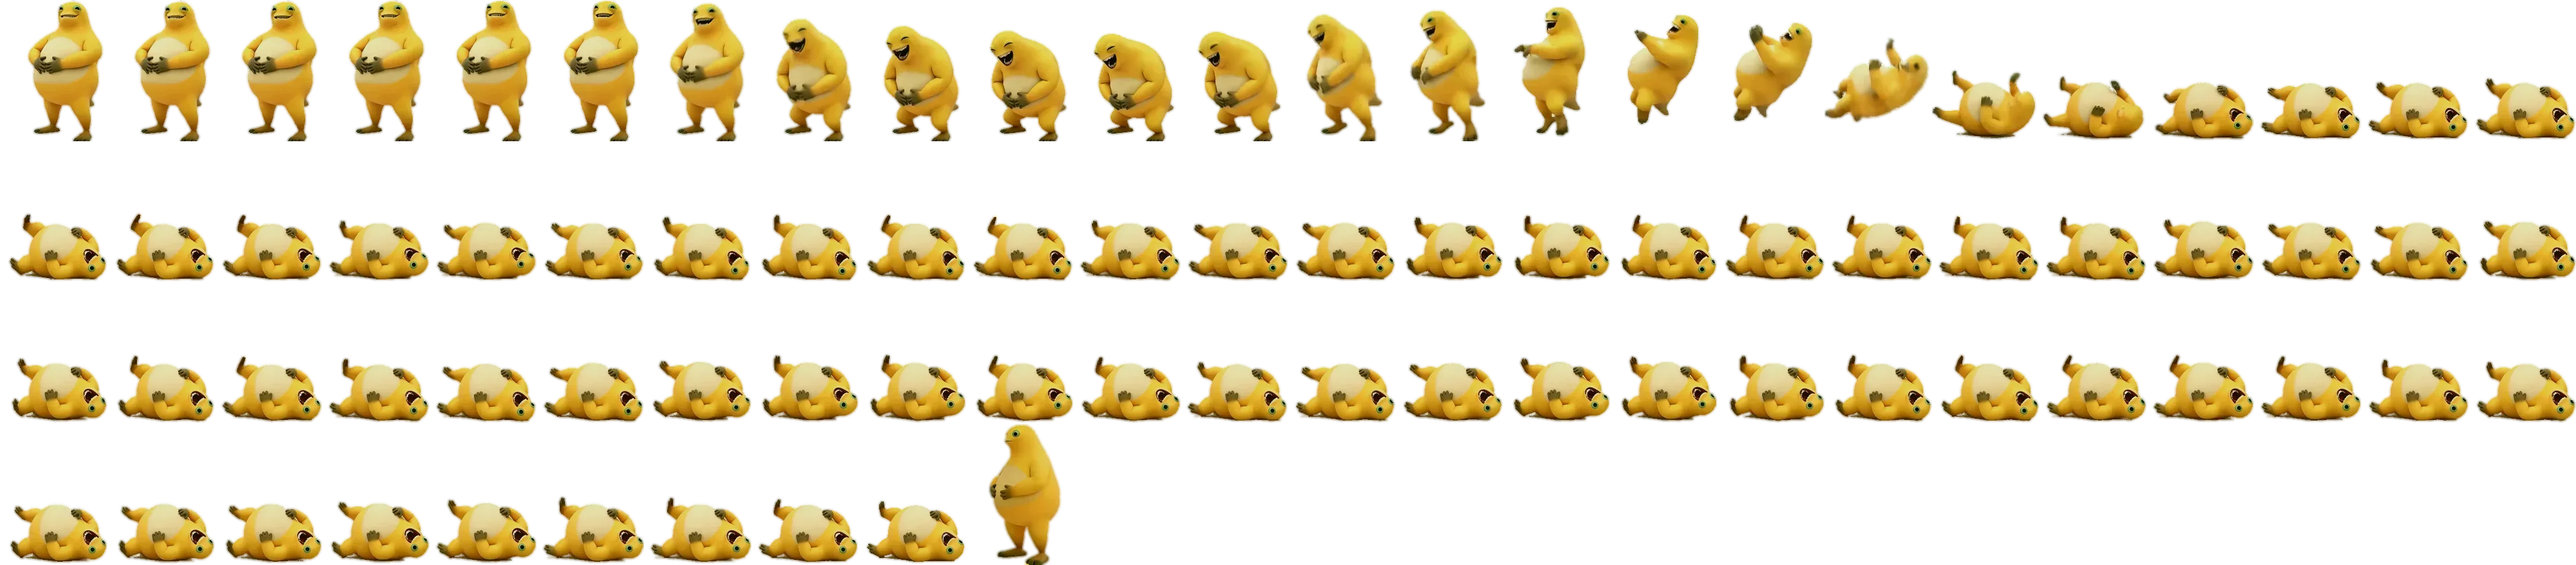
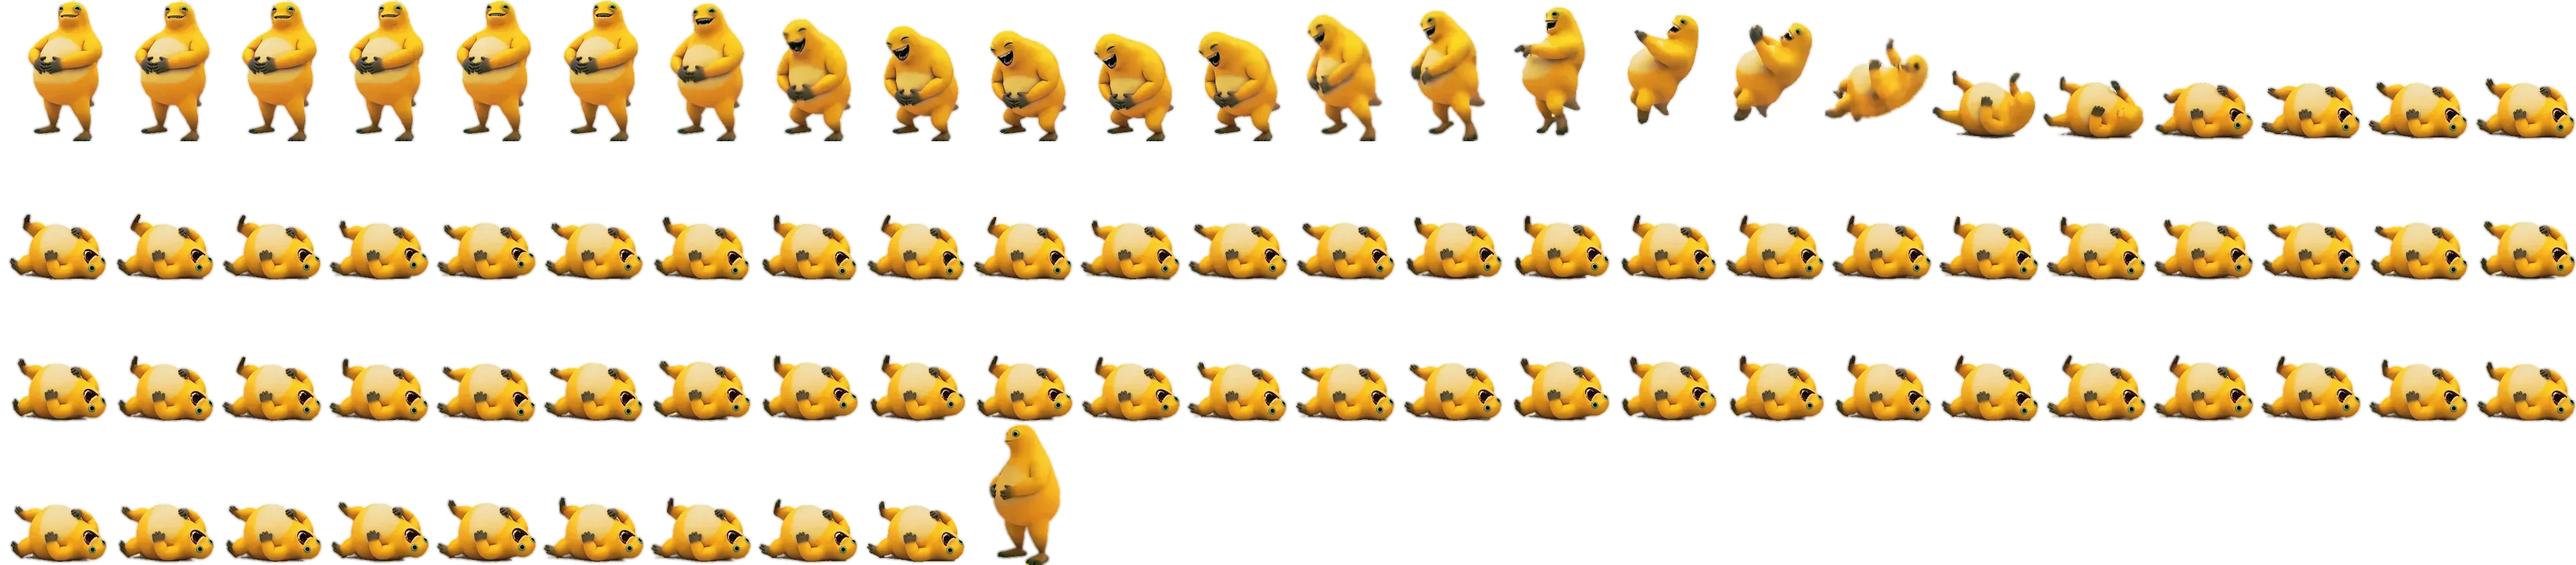
fix(deskpet): 打滚与大笑按亮度→颜色曲线对齐站立色板（平均绝对色差 B 通道 19.9→7.2 / 19.6→6.6）

diff --git a/docs/状态.md b/docs/状态.md
@@ -1,3 +1,4 @@
+> **2026-11-13 21:48 一句话状态**：打滚/大笑色板已按「亮度→颜色」曲线对齐站立三视图（平均绝对色差打滚 15.5/8.6/19.9 → 5.5/2.5/7.2、大笑 15.9/10.0/19.6 → 6.0/2.4/6.6），`bean-roll.webp` 405692 B、`bean-laugh.webp` 573098 B；`npm run build` EXIT=0、`e2e-deskpet-out` PASS（83/0）、五项回归全绿、预览版已重启（electron PID 3244）；分支 `deskpet-color-fit`，`main` 仍停在合并后的 `2c2dcdb`，**未合并未打包**。
 > **2026-11-13 21:35 一句话状态**：`deskpet-wave` 已合并回 `main`（合并提交 **`442b666`**，7 个提交进主干），合并后 `npm run build` EXIT=0、`e2e-deskpet-out` PASS（83/0）、五项回归全绿，预览版已重启（electron PID 11000）；**未打包**（用户明确说先不打包）。
 > **2026-11-13 21:27 一句话状态**：打滚「站立→倒下」的扣多扣少已按时间轴平滑重建，相邻帧面积跳变 0.079→0.017、内部洞 60 帧→6 帧（`bean-roll.webp` 394924 B，提交 `434a142`）；`npm run build` EXIT=0、`e2e-deskpet-out` PASS（83/0）、五项回归全绿、预览版已重启（electron PID 11884）；分支 `deskpet-wave`，`main` 仍是 `6e99d0c`，未合并未打包。
 > **2026-11-13 20:35 一句话状态**：打滚凹口与挥手灰白边两个真问题都已修好并部署（打滚 `bean-roll.webp` 358702 B、挥手 `bean-wave.webp` 286930 B），`npm run build` EXIT=0、`e2e-deskpet-out` PASS（83 过 / 0 败）、五项回归全绿、预览版已重启（electron PID 20308），分支 `deskpet-wave`，`main` 仍是 `6e99d0c`，未合并未打包。
@@ -121,6 +122,7 @@
 > 18. 「挥手又白色描边，扣仔细点」——第一版用「边缘−内部亮度差 52.05→3.14」通过，用户 m10701 否掉；真因是素材自带 3~5px 边缘高光渐晕，第二版把整圈外缘（含透明区）RGB 全换成本体色，局部环比 +22.66→+1.65。
 > 19. 「打滚和大笑暗0.2看看」——RGB 乘 0.8、alpha 不动，打滚/大笑身体黄约为站立的 0.81~0.84 倍。
 > 20. 「打滚站立到倒下之间扣多扣少」+「抬头 0.1」+「挥手眼睛坏了」（m11109/m11789）——打滚凹口真因是 `gate_offbody` 的 `cream` 门槛 `mn>182` 把身体边缘 mn 170~179 的过渡带清掉（实测误清 416 px），改用 `restore_gate_cut` 按 gate 前 alpha 还原；眼睛坏是修白边时 `core=MinFilter(25)` 内缩 12px 把眼白白圈排除在可信本体外，被瞳孔色填掉，rim28 换 trimap 抠像反解后恢复。详见 SPEC 7.17。
+> 22. 「站立的和打滚、大笑其实还是有颜色差异，以站立的为主」（m12340）——前几轮只对齐「身体黄中位」一个常数，但色差随亮度反转（暗部 B 少 20、中间调 R 少 17、高光 B 多 57），常数 delta 只能对齐一段。改成按亮度分 16 档求 `delta(L)` 曲线再逐像素插值，平均绝对色差打滚 15.5/8.6/19.9→5.5/2.5/7.2、大笑 15.9/10.0/19.6→6.0/2.4/6.6，alpha 不动。详见 SPEC 7.19。
 > 21. 「站着到倒下之间还是有扣多扣少」（m11789）——**相邻帧面积跳变 0.079 → 0.017**（时间轴 5 帧平滑 + 连续 alpha 阈值 + 半透明带全部换身体色），内部洞 60/82 帧 → 6/82 帧。详见 SPEC 7.18。
 
 >
